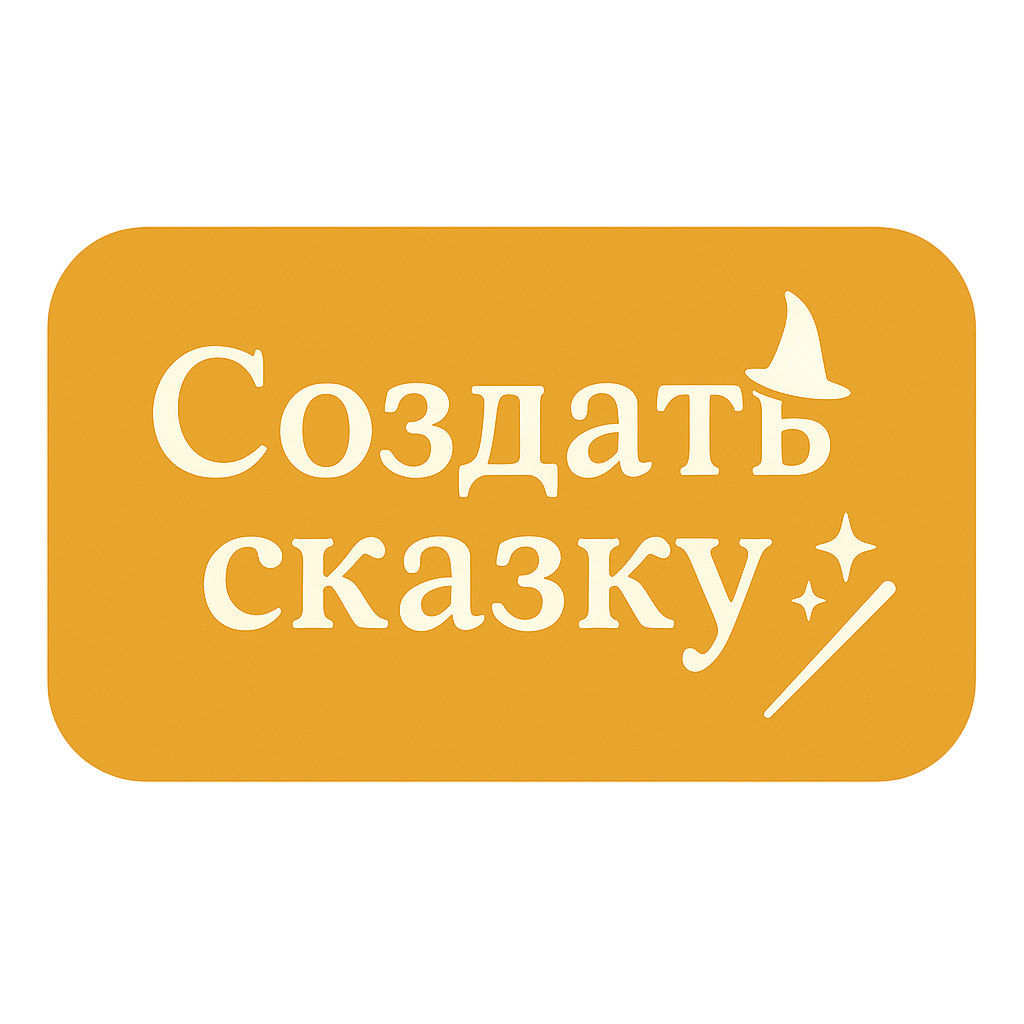
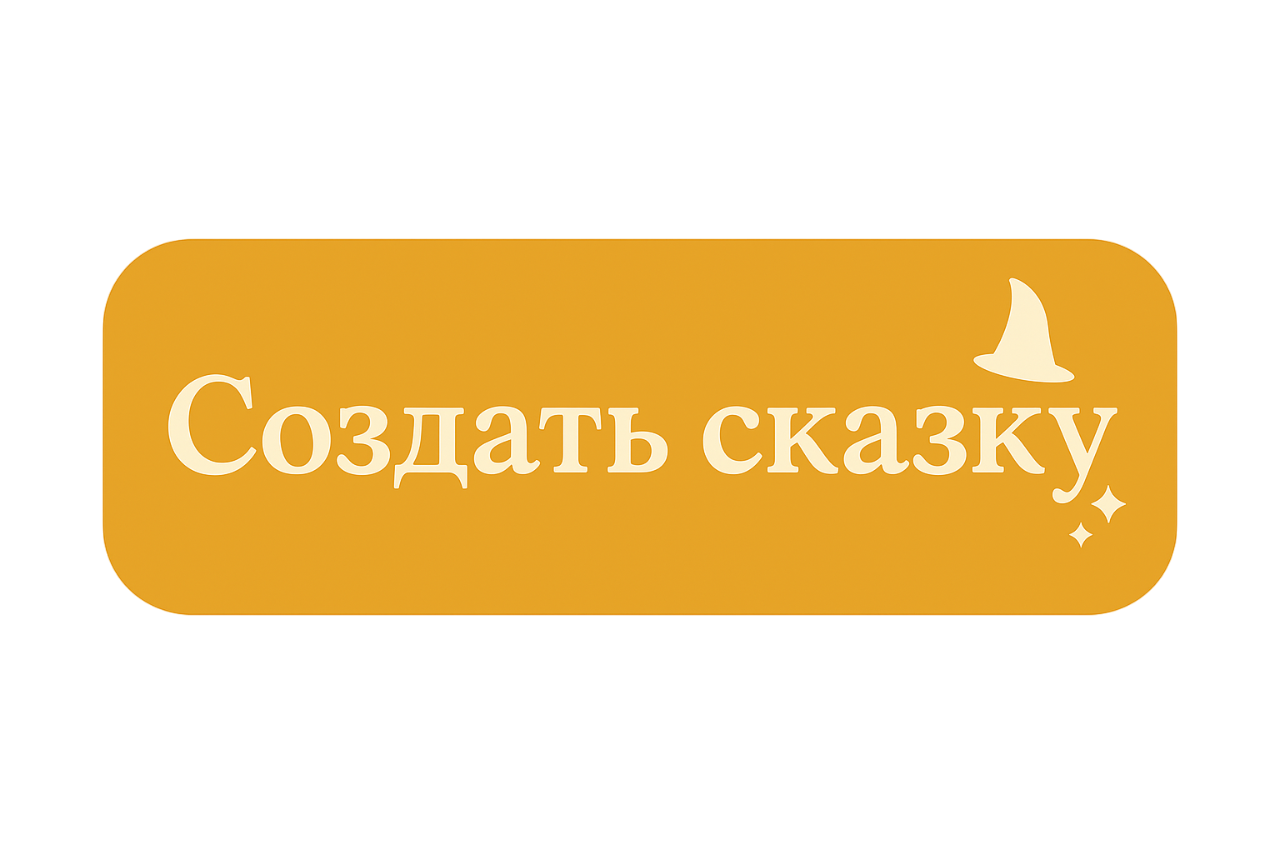
Changes

Changed region(s): [[0.0312, 0.2134, 0.9688, 0.762]]

diff --git a/src/pages/Landing.tsx b/src/pages/Landing.tsx
@@ -10,6 +10,7 @@ import heroSelectionImage from "@/assets/hero-selection.png";
 import worldAtmosphereImage from "@/assets/world-atmosphere.png";
 import aiWritingImage from "@/assets/ai-writing.png";
 import readyStoryImage from "@/assets/ready-story.png";
+import createButtonImage from "@/assets/create-button.png";
 const Landing = () => {
   const [scrollY, setScrollY] = useState(0);
   useEffect(() => {
@@ -32,14 +33,11 @@ const Landing = () => {
             <img src={logoImage} alt="FairyTeller" className="h-16 object-contain" />
           </div>
           <Link to="/create">
-            <div className="relative inline-block hover:scale-105 transition-all duration-300 cursor-pointer">
-              <div className="bg-[#63d2ff] rounded-[1.5rem] px-8 py-4 shadow-lg hover:shadow-[0_0_30px_rgba(99,210,255,0.5)] transition-all relative overflow-visible">
-                <div className="absolute -bottom-1 right-6 text-2xl">✨</div>
-                <p className="text-[#0e1a22] text-xl md:text-2xl font-serif font-bold whitespace-nowrap">
-                  Создать сказку
-                </p>
-              </div>
-            </div>
+            <img 
+              src={createButtonImage} 
+              alt="Создать сказку" 
+              className="h-14 w-auto hover:scale-105 transition-all duration-300 cursor-pointer drop-shadow-lg hover:drop-shadow-2xl"
+            />
           </Link>
         </div>
       </header>
@@ -93,14 +91,11 @@ const Landing = () => {
             <p className="text-xl text-[#3D2617] leading-relaxed">Задай пару параметров, добавь свое фото и получи настоящую печатную книгу с иллюстрациями</p>
             <div className="pt-0 -mt-4 flex justify-end mr-8">
               <Link to="/create">
-                <div className="relative inline-block hover:scale-105 transition-all duration-300 cursor-pointer">
-                  <div className="bg-[#63d2ff] rounded-[2rem] px-10 py-5 shadow-lg hover:shadow-[0_0_40px_rgba(99,210,255,0.6)] transition-all relative overflow-visible">
-                    <div className="absolute -bottom-1 right-6 text-3xl">✨</div>
-                    <p className="text-[#0e1a22] text-2xl md:text-3xl font-serif font-bold whitespace-nowrap">
-                      Создать сказку
-                    </p>
-                  </div>
-                </div>
+                <img 
+                  src={createButtonImage} 
+                  alt="Создать сказку" 
+                  className="h-20 w-auto hover:scale-105 transition-all duration-300 cursor-pointer drop-shadow-lg hover:drop-shadow-2xl"
+                />
               </Link>
             </div>
           </div>
@@ -403,10 +398,11 @@ const Landing = () => {
             Заполните несколько полей — и получите историю, где герои и события будут связаны с вашей жизнью.
           </p>
           <Link to="/create">
-            <Button size="lg" className="gap-3 text-lg px-14 py-9 bg-[#2f4b5f] hover:bg-[#1e3240] text-white shadow-xl hover:shadow-[0_0_50px_rgba(99,210,255,0.5)] hover:scale-105 transition-all duration-500 ease-out border-0 rounded-2xl font-semibold">
-              <Sparkles className="h-5 w-5" />
-              Создать сказку
-            </Button>
+            <img 
+              src={createButtonImage} 
+              alt="Создать сказку" 
+              className="h-24 w-auto hover:scale-105 transition-all duration-300 cursor-pointer drop-shadow-2xl hover:drop-shadow-[0_0_40px_rgba(230,166,72,0.6)]"
+            />
           </Link>
         </div>
       </section>
